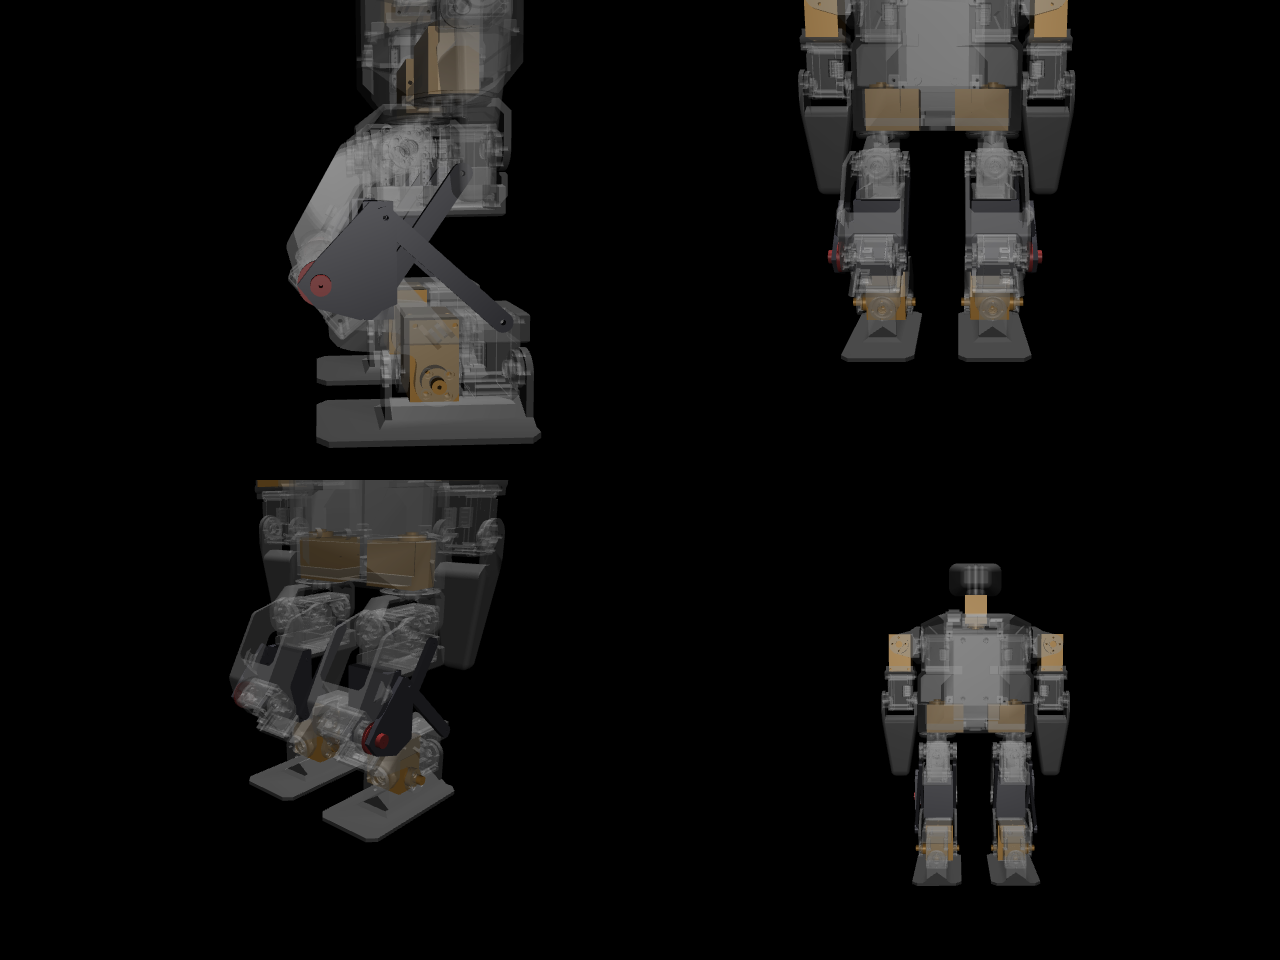
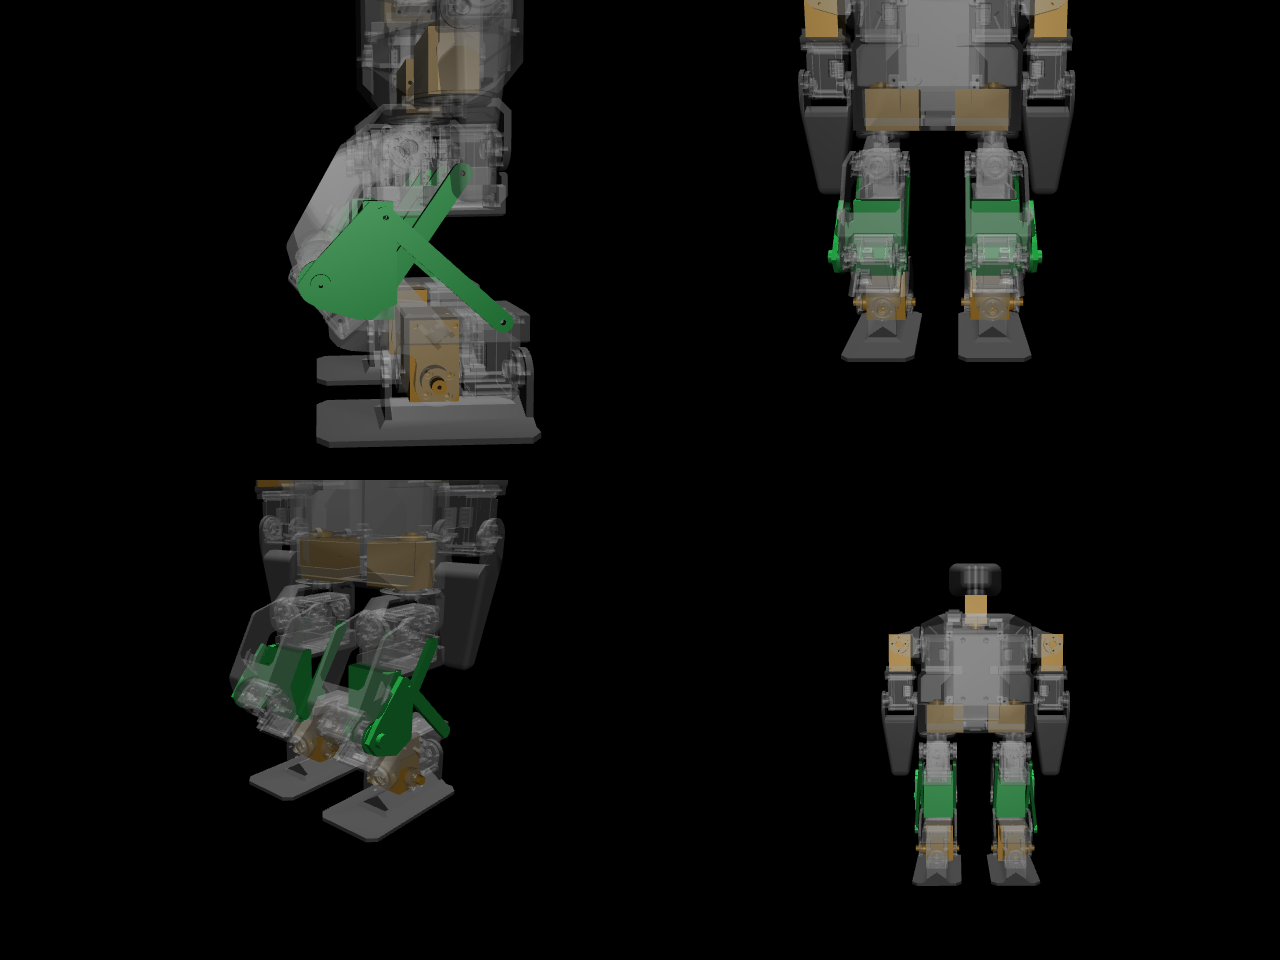
Japanese README, green parts in the renders, elbow back to Microban's range
- README_ja.md (full Japanese version), linked from README.md
- added mechanism parts drawn green and the printed servo-shaped spacers amber;
  previews and the placement check re-rendered
- elbow range back to the upstream +-125 deg by default (--elbow-flexion-only
  as an option): forward-only flexion cost the prone get-up most of its
  robustness (15/16 -> <= 5/16) and the forearm clears the upper arm either way
- model masses corrected in the docs (16-servo 0.795 kg with its spacers)

diff --git a/tools/make_microban_pl.py b/tools/make_microban_pl.py
@@ -147,6 +147,10 @@ def main():
                     help="16: passive ankle pitch + fixed head. 14: additionally no shoulder roll "
                          "(legs 5x2 with hip yaw, arms 2x2 -- the chosen layout). 12: no hip yaw either")
     ap.add_argument("--meshdir", help="override the compiler meshdir written into the output")
+    ap.add_argument("--elbow-flexion-only", action="store_true",
+                    help="limit the elbow to forward flexion (-125..+10 deg, negative = flexion). The default "
+                         "keeps Microban's own symmetric +-125 deg: the forearm clears the upper arm either "
+                         "way, and the prone get-up that was found robust pushes with the elbow bent backward")
     ap.add_argument("--parts", default="",
                     help="directory of the printed-part STLs (tools/make_parts.py), as a path RELATIVE TO MESHDIR; "
                          "when given, the links, knee yoke, axle caps and spacer blocks are drawn with those meshes "
@@ -184,7 +188,10 @@ def main():
         for nm in PART_MESHES:
             ET.SubElement(asset, "mesh", {"name": f"part_{nm}", "file": f"{a.parts}/{nm}.stl", "scale": "0.001 0.001 0.001"})
 
-    def part(body, nm, pos, quat, rgba="0.85 0.6 0.25 1"):
+    PART_GREEN, DUMMY_AMBER = "0.15 0.75 0.3 1", "0.9 0.65 0.2 1"
+
+    def part(body, nm, pos, quat, rgba=None):
+        rgba = rgba or (DUMMY_AMBER if "dummy" in nm else PART_GREEN)
         ET.SubElement(body, "geom", {"class": "visual", "type": "mesh", "mesh": f"part_{nm}", "pos": fmt(pos),
                                      "quat": fmt(quat), "rgba": rgba})
     PART_HOOK["fn"] = part if a.parts else None
@@ -206,13 +213,13 @@ def main():
         offsets = (-a.link_x, a.link_x) if lateral is None else lateral
         if a.parts:
             for zx in offsets:   # STL: centred at the origin along x, 3 mm thick in +z
-                part(el, bar, v / 2 + np.array([0, 0, zx - 0.0015]), q, "0.25 0.25 0.28 1")
+                part(el, bar, v / 2 + np.array([0, 0, zx - 0.0015]), q)
             return
         for zx in offsets:
             ET.SubElement(el, "geom", {"class": "visual", "type": "box",
                                        "size": fmt((np.linalg.norm(v) / 2 + 0.004, 0.004, 0.0015)),
                                        "pos": fmt(v / 2 + np.array([0, 0, zx])), "quat": fmt(q),
-                                       "rgba": "0.25 0.25 0.28 1"})
+                                       "rgba": "0.15 0.75 0.3 1"})
 
     ang1 = np.degrees(np.arctan2(a.tilt, a.back)); ang2 = np.degrees(np.arctan2(a.shank_tilt, a.shank_back))
     HIP_RANGE = (-np.radians(90 + ang1 - RANGE_MARGIN), np.radians(90 - ang1 - RANGE_MARGIN))   # +ve = thigh back
@@ -253,24 +260,24 @@ def main():
         if a.parts:
             # the parts are modelled in the Onshape leg frame with the leg centre at x = 0; that
             # frame is the femur mesh geom's frame shifted to the actual centre x_c
-            part(kb, f"knee_yoke_{side}", fgp + R_fg @ np.array([x_c, 0, 0]) - v1, fgq, "0.25 0.25 0.28 1")
+            part(kb, f"knee_yoke_{side}", fgp + R_fg @ np.array([x_c, 0, 0]) - v1, fgq)
             # axle cap: flange on the outer plate face (centre +- 18.5 mm), stub pointing outboard
             cap_pos = fgp + R_fg @ np.array([x_c + out_sign * 0.0185, knee_mesh[1], knee_mesh[2]])
             r2 = np.sqrt(0.5); q_rot = np.array([r2, 0, out_sign * r2, 0])        # cap +z -> mesh +-x
             w1, x1, y1, z1 = fgq; w2, x2, y2, z2 = q_rot
             cap_q = (w1*w2 - x1*x2 - y1*y2 - z1*z2, w1*x2 + x1*w2 + y1*z2 - z1*y2,
                      w1*y2 - x1*z2 + y1*w2 + z1*x2, w1*z2 + x1*y2 - y1*x2 + z1*w2)
-            part(femur, "knee_axle_cap", cap_pos, cap_q, "0.6 0.2 0.2 1")
+            part(femur, "knee_axle_cap", cap_pos, cap_q)
         # box placeholders (shown when no --parts): a bar behind the knee carrying both
         # rear-link pivots and spanning the two link planes, plus an outboard arm
         mid = (d1 + d2) / 2
         if not a.parts:
             ET.SubElement(kb, "geom", {"class": "visual", "type": "box",
                                        "size": fmt((0.004, abs(d2[1] - d1[1]) / 2 + 0.006, a.link_x + 0.0015)),
-                                       "pos": fmt(mid + np.array([0, 0, c_z])), "rgba": "0.25 0.25 0.28 1"})
+                                       "pos": fmt(mid + np.array([0, 0, c_z])), "rgba": "0.15 0.75 0.3 1"})
             ET.SubElement(kb, "geom", {"class": "visual", "type": "box",
                                        "size": fmt((abs(mid[0]) / 2 + 0.006, 0.005, 0.0015)),
-                                       "pos": fmt((mid[0] / 2, mid[1] / 2, c_z + out_z * 0.022)), "rgba": "0.25 0.25 0.28 1"})
+                                       "pos": fmt((mid[0] / 2, mid[1] / 2, c_z + out_z * 0.022)), "rgba": "0.15 0.75 0.3 1"})
         tibia.set("pos", "0 0 0"); tibia.set("quat", "1 0 0 0")
         kb.append(tibia)
         sr = ET.SubElement(kb, "body", {"name": f"{side}_shank_rear", "pos": fmt(d2)})
@@ -379,6 +386,11 @@ def main():
             fi[0] += I; fi[2] += I          # rod inertia about the two axes across it
             ine.set("fullinertia", " ".join(f"{v:.5e}" for v in fi))
 
+    if a.elbow_flexion_only:
+        for j in root.iter("joint"):
+            if j.get("name") in (name("right_elbow"), name("left_elbow")):
+                j.set("range", fmt((-2.18166, 0.17453)))   # flexion only, +10 deg of hyperextension
+
     # actuators: drop ankle pitch (and neck), motor -> position unless asked otherwise
     act = root.find("actuator")
     ankle_joints = removed_joints
@@ -400,7 +412,7 @@ def main():
     body = ET.tostring(root, encoding="unicode")
     note = (f"<!--\n{model_name}: Microban with parallel-link legs (passive ankle pitch).\n"
             f"Derived from Rhoban/microban src/model/mjcf/robot.xml by tools/make_microban_pl.py\n"
-            f"(dof={a.dof}, naming={a.naming}, thigh back/tilt={a.back}/{a.tilt}, shank back/tilt={a.shank_back}/{a.shank_tilt}, link_x={a.link_x}, fixed_head={not a.neck_motor}, slim_ankle={not a.keep_ankle_servo}, forearm_ext={a.forearm_ext}).\n"
+            f"(dof={a.dof}, elbow={"flexion-only" if a.elbow_flexion_only else "free"}, naming={a.naming}, thigh back/tilt={a.back}/{a.tilt}, shank back/tilt={a.shank_back}/{a.shank_tilt}, link_x={a.link_x}, fixed_head={not a.neck_motor}, slim_ankle={not a.keep_ankle_servo}, forearm_ext={a.forearm_ext}).\n"
             f"Hip range {np.degrees(HIP_RANGE[0]):.0f}..{np.degrees(HIP_RANGE[1]):.0f} deg, knee {np.degrees(KNEE_RANGE[0]):.0f}..{np.degrees(KNEE_RANGE[1]):.0f} deg (pelvis-relative). See NOTICE.md for attribution.\n-->\n")
     os.makedirs(os.path.dirname(os.path.abspath(a.out)), exist_ok=True)
     with open(a.out, "w", encoding="utf-8") as f:

diff --git a/README_ja.md b/README_ja.md
@@ -1,0 +1,151 @@
+# reduced-dof-humanoid（日本語）
+
+ROBO-ONE Light 向けに軸数を減らしたヒューマノイドの検討リポジトリです。Rhoban の
+[Microban](https://github.com/Rhoban/microban) から派生していますが、Rhoban および原作者
+Marc Duclusaud 氏とは無関係の非公式プロジェクトです。英語版は [README.md](README.md)。
+
+**状態: 実験段階。** 同じ生成スクリプトから 3 つの MuJoCo モデルを出しています。
+
+| モデル | 構成 | 質量 |
+| --- | --- | --- |
+| 16 軸（中間段階） | 足首ピッチをパラレルリンクで受動化、頭を固定 | 0.795 kg |
+| **12 軸（標準）** | さらに肩ロールと股ヨーを省略。脚 4×2、腕 2×2。外したサーボの位置には XL330 と同じ外形の 3D プリント製ダミーを入れる | 0.735 kg |
+| **14 軸（アップグレード）** | 12 軸の股ヨー位置のダミーを本物のサーボに差し替えたもの。その場旋回ができる | 0.765 kg |
+
+Microban は 19 軸、0.819 kg です。外したサーボはすべて同形のダミーに置き換えるので、
+元のブラケットは無改造で使え、サーボは後から戻せます。
+
+<p align="center">
+  <img src="docs/images/preview12.png" alt="12 軸版の側面図と斜め図（直立としゃがみ）" width="640">
+</p>
+
+## なぜ軸を減らすのか
+
+Pollen Robotics の Microduck は腕も足首ロールも無い 15 軸で、学習したポリシーで歩きます。
+小型ヒューマノイドの標準的な 19〜20 軸は、歩くだけなら過剰だと示唆しています。
+一方 ROBO-ONE Light の規則は、各 1 軸以上の可動軸を持つ 2 本の腕、胴体と独立した頭、
+足裏を 10 mm 以上上げた前後左右の歩行を要求します。そこで「規則の中で、キーフレーム制御のまま
+どこまで削れるか」を検討しました。詳細は [docs/design_ja.md](docs/design_ja.md)。
+
+| 軸 | 判断 | 理由 |
+| --- | --- | --- |
+| 足首ピッチ | 受動化（実施済み） | 大腿・下腿の平行四辺形で足裏を骨盤と平行に保つ（ashigaru と同じ機構） |
+| 首 | 省略（実施済み） | 規則は頭の存在と寸法のみ要求。固定頭でも外形は保てる |
+| 肩ロール | 省略（実施済み） | 規則は腕 1 軸以上。肩ピッチ＋肘でパンチと起き上がりはできる |
+| 股ヨー | 12 軸では省略、14 軸で復活 | 無いと両足が常に平行で、旋回は床との滑りに頼る（Robovie-nano と同じ） |
+| 股ロール・股ピッチ・膝・足首ロール | 残す | 横移動、10 mm の足上げ、位置制御サーボでの足裏を水平に保った荷重移動に必要 |
+
+## リポジトリの内容
+
+```
+model/microban_pl12/     12 軸モデル（標準）。本家の関節名版、LME 命名版、ビューア用シーン
+model/microban_pl14/     14 軸モデル（アップグレード）
+model/microban_pl/       16 軸モデルと、Microban のメッシュ（無改変、CC BY-NC-SA 4.0）
+model/parts/             追加部品の印刷用ドラフト STL（tools/make_parts.py の出力）
+tools/
+  make_microban_pl.py    Microban の robot.xml から上記モデルを生成する
+  make_parts.py          リンク、膝ヨーク、軸キャップ、スペーサ、ダミーサーボの CadQuery スクリプト
+  verify_parallel_leg.py 閉ループ残差・足裏平行性・起立の検証
+  render_preview.py      プレビュー画像の生成
+  step_holes.py          Microban の STEP から穴パターンを読む
+docs/
+  design_ja.md           軸数削減の検討メモ（規則との対応、各段階の検証結果、費用）
+  parts_ja.md            追加部品の設計メモ（ピボット配置、配置制約、部品一覧、未確認事項）
+```
+
+## パラレルリンク脚
+
+脚ごとに、大腿と脛に沿った 2 つの平行四辺形を後方リンクで作り、膝ブロックと足裏を骨盤と
+平行に保ちます。足首ピッチの関節は受動になり、サーボとホーンを外せます。
+
+- 膝サーボの指令角は大腿基準ではなく**骨盤基準**になります。既存の Microban のモーションは作り直しが必要です。
+- 大腿側リンクは前方ピボットの後方 20 mm・下 10 mm、下腿側は後方 25 mm・上 25 mm（足首ロールサーボと足を避けるため）。
+  特異点から 8° の余裕をとって、可動域は股ピッチ −109°〜+55°、膝 −37°〜+127°（骨盤基準）です。
+- モデル上のリンクと膝ヨークは `tools/make_parts.py` の STL を緑色で描いています。
+
+## 実機で変わる部品
+
+| 部品 | 変更 | モデル上の効果 |
+| --- | --- | --- |
+| 足首ブロック | 足首ピッチの XL330 とアイドラホーンを外し、受動ヒンジ付きダミーブロックを入れる | 片足 47 g → 33 g。膝は 132° まで折れる（元は 117°） |
+| 首 | 胴体上部の XL330 を外し、ダミーを入れて頭を直付け | −15 g |
+| 肩ロール | 上腕上端の XL330 を外し、ダミーを入れる | −30 g |
+| 股ヨー（12 軸） | 胴体下部の XL330 2 個を外し、ダミーを入れる。14 軸ではサーボに戻す | −30 g |
+| 後方リンク | 脚ごとに大腿バー 2 本（62.2 mm）と下腿バー 1 本（61.7 mm）、3×8 mm、M2 ピン | 平行四辺形を閉じる |
+| 膝ヨーク | 膝後方の新部品。大腿側と下腿側のピボットを持ち、外側の腕で膝軸キャップに乗る | 6 g |
+| 膝軸キャップ | 膝サーボのホーンに共締めし、Ø8 のスタブ軸を外側に出す | ヨークの軸受け |
+
+配置制約（腕との 1 mm の間隔、左右脚の間の 6 mm、股・足首後方のロールサーボ）と未確認事項は
+[docs/parts_ja.md](docs/parts_ja.md) にまとめています。印刷前に Onshape で元部品と組み合わせて確認してください。
+
+<p align="center">
+  <img src="docs/images/parts_check.png" alt="ドラフト部品を配置し元部品を半透明にした確認図" width="640">
+</p>
+
+## 検証
+
+`tools/verify_parallel_leg.py` による機構の検証と、LegacyMotionEditor のモーションツールによる
+動作検証（サーボ零点誤差 0.3° と初期傾き 1° の外乱付き 8 試行）:
+
+| 項目 | 12 軸 | 14 軸 |
+| --- | --- | --- |
+| 閉ループ残差（初期姿勢） | 0.000 mm | 0.000 mm |
+| 前進・後退・横移動 | 8/8 | 8/8 |
+| 旋回 | 8/8（すり足） | 8/8（股ヨー、72° / 141°） |
+| ジャブ | 8/8 | 8/8 |
+| うつ伏せからの起き上がり | 8/8 | 8/8 |
+| 仰向けからの起き上がり（寝返り＋同じ起き上がり） | 8/8 | 8/8 |
+
+歩行は静的歩行で約 36 mm/s です。Microban 本家の RL 歩行（前進上限 0.7 m/s）のような動的歩行とは
+方式が違います。肘は本家と同じ ±125° で、起き上がりは肘を後ろ側に曲げて押す経路を使っています
+（前屈曲のみに制限すると起き上がりの頑健性が大きく落ちました。`--elbow-flexion-only` で制限できます）。
+
+## 使い方
+
+必要なもの: Python 3.10 以上、`mujoco`（3.1 以上）、`numpy`。描画には `Pillow`、部品生成には `cadquery`。
+
+```bash
+# ビューアで見る
+python -m mujoco.viewer --mjcf model/microban_pl12/scene.xml      # 12 軸
+python -m mujoco.viewer --mjcf model/microban_pl14/scene.xml      # 14 軸
+# Microban のクローンから再生成
+python tools/make_microban_pl.py path/to/microban/src/model/mjcf/robot.xml \
+    model/microban_pl12/microban_pl12.xml --dof 12 --meshdir ../microban_pl/assets --parts ../../parts \
+    --scene model/microban_pl12/scene.xml
+# 検証
+python tools/verify_parallel_leg.py model/microban_pl12/microban_pl12.xml
+# 部品 STL
+python tools/make_parts.py model/parts
+```
+
+主なオプション: `--dof 16|14|12`、`--naming lme`（LegacyMotionEditor の関節名）、`--back`/`--tilt`/
+`--shank-back`/`--shank-tilt`（ピボット配置。可動域はそこから計算）、`--clevis`、`--keep-ankle-servo`、
+`--neck-motor`、`--keep-motor`（RL 用のトルクアクチュエータ）、`--elbow-flexion-only`、`--forearm-ext`。
+
+LegacyMotionEditor では `*_lme.xml` を使います。閉ループを検出して受動関節をスライダーから隠し、
+受動関節の名前は Meridim の対応表に無いものにしてあるので、サーボのスロットと衝突しません。
+
+## 費用概算
+
+Microban の BOM（XL330 1 個 $23.90、サーボ以外 約 $113）に、追加部品の M2 ねじ・ワッシャ・
+フィラメント約 $5 を足したものです。設定用の U2D2 一式（$56）は共通で別。
+
+| 構成 | サーボ | 合計 | Microban（$567）比 |
+| --- | --- | --- | --- |
+| 12 軸標準 | 12 | 約 $405 | −$162（−29 %） |
+| 14 軸 | 14 | 約 $453 | −$114（−20 %） |
+
+## 今後
+
+1. ドラフト部品を Onshape で元部品と組み合わせてフィット確認し、印刷する。
+2. 足裏寸法を ROBO-ONE Light の表（脚長の 55 % / 35 %）と照合する。
+3. 動的歩行を試すなら、本家の学習パイプライン mjlab_microban にこのモデルを差し替える。
+
+## ライセンス
+
+- コード、ドキュメント、生成した MJCF: **Apache-2.0**（本家 robot.xml も Apache-2.0 で、その表示を保持）。
+- `model/microban_pl/assets/` のメッシュ: **CC BY-NC-SA 4.0**（Marc Duclusaud 氏、Microban から無改変で複製）。
+  このためモデル全体としては**非営利**に限られます。キットとして販売するには原作者の許諾が必要です。
+  詳細は [NOTICE.md](NOTICE.md)。
+
+Microban 由来の内容を使う場合は Microban も引用してください（[README.md](README.md) の BibTeX 参照）。

diff --git a/README.md b/README.md
@@ -1,5 +1,7 @@
 # reduced-dof-humanoid
 
+[日本語版 README はこちら](README_ja.md)
+
 Reduced-DOF humanoid for ROBO-ONE Light, derived from Rhoban's
 [Microban](https://github.com/Rhoban/microban) (unofficial, not affiliated with
 Rhoban or the author of Microban).
@@ -91,8 +93,9 @@ Consequences:
   and 25 mm above, which lifts the ankle pivot clear of the ankle-roll servo and
   the foot (singular at 135° / 45°). Joint ranges follow with an 8° margin:
   hip −109°…+55°, knee −37°…+127° (pelvis-relative).
-- The rear links are drawn as thin capsules and do not collide; interference
-  with the real parts is not modelled yet.
+- The added parts are drawn in green (mechanism) and amber (printed servo-shaped
+  spacers); they do not collide, so interference with the real parts is not
+  modelled yet.
 
 ### Parts that change on the printed robot
 
@@ -109,7 +112,7 @@ has to produce (`--keep-ankle-servo` and `--neck-motor` restore the originals):
 | Hip yaw (12-servo study only) | The two XL330s in the bottom of the trunk are removed; each hip bracket bolts straight to the trunk. | −46 g. No turning on the spot. |
 | Shoulder roll (14- and 12-servo models) | The XL330 at the top of each humerus is removed; the humerus bolts to the shoulder bracket with the arm at the side. | −46 g. |
 
-Total mass with the printed spacers (8 g each): 0.833 kg (upstream model) → 0.735 kg (12-servo) → 0.765 kg (14-servo).
+Total mass with the printed spacers (8 g each): 0.833 kg (upstream model) → 0.795 kg (16-servo) → 0.765 kg (14-servo) → 0.735 kg (12-servo).
 
 ### Cost
 
@@ -173,6 +176,11 @@ get-ups from prone and from supine (roll over + the same rise). Details in
 With the original Microban model, commanding the same two hip/knee values
 without adjusting the ankle tips the robot over; here the linkage keeps the
 soles flat automatically.
+
+The elbow keeps Microban's own symmetric ±125° range: the forearm clears the
+upper arm either way, and the robust prone get-up pushes with the elbow bent
+backward. Limiting it to forward flexion (`--elbow-flexion-only`) dropped the
+get-up's success rate from 15/16 to at best 5/16 in the searches tried.
 
 ## Usage
 
